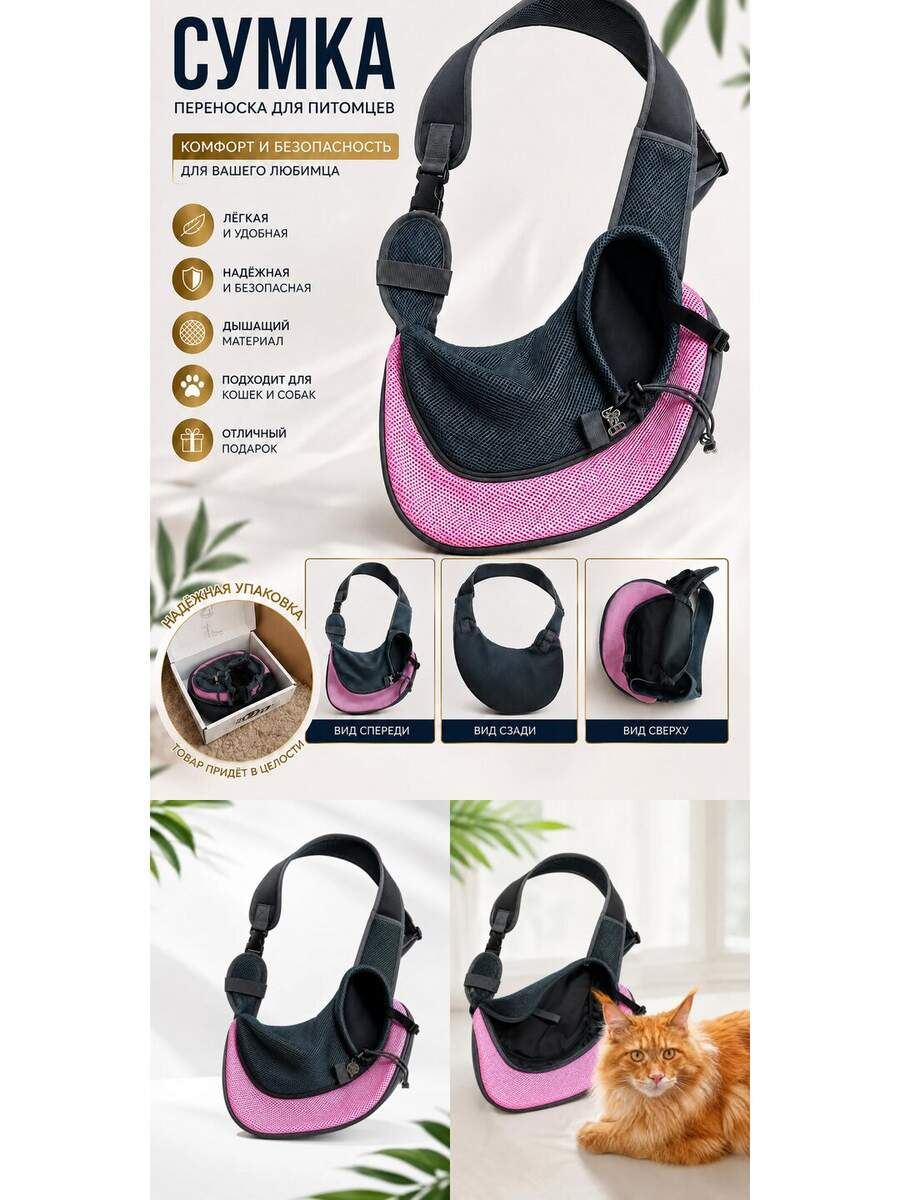
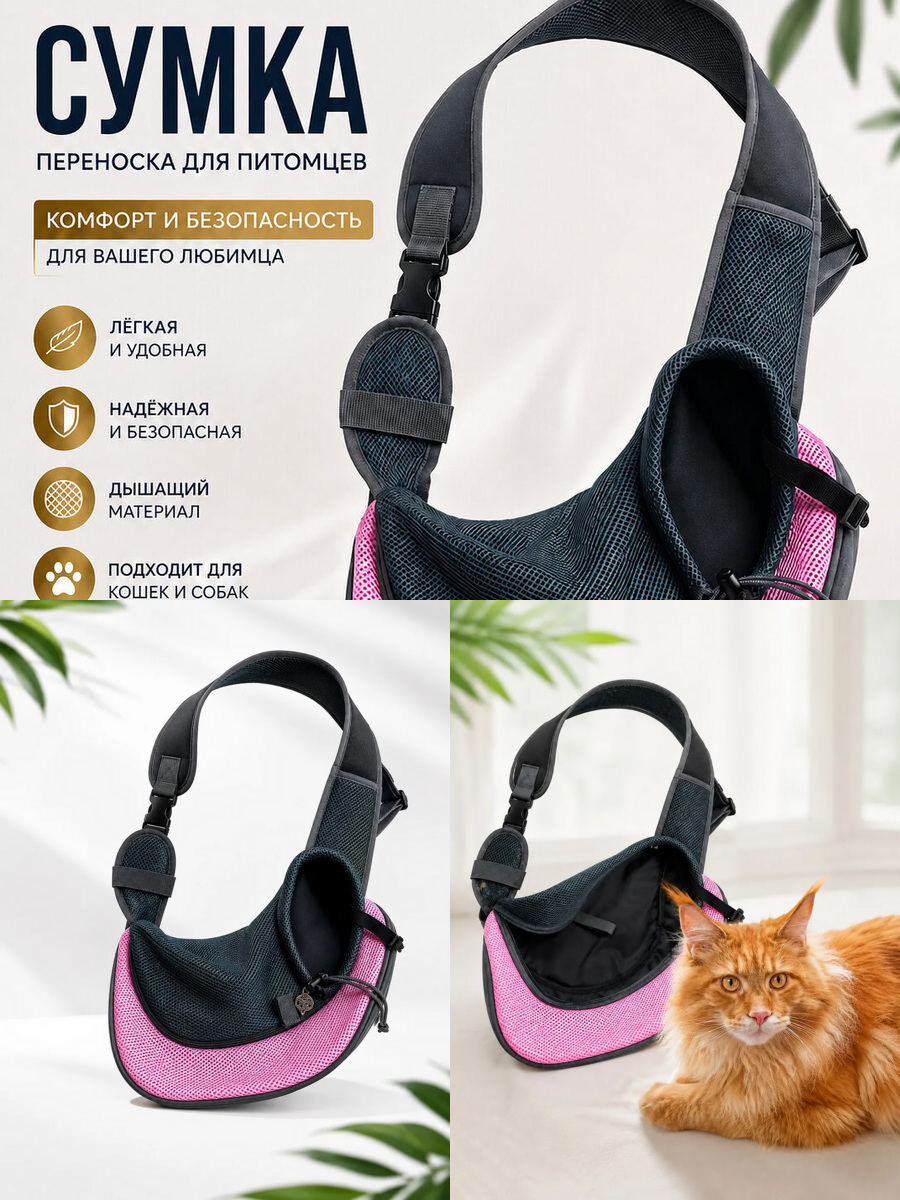
Align all product card previews and remove white bands

diff --git a/portfolio-fix.css b/portfolio-fix.css
@@ -28,6 +28,8 @@
 }
 
 .case-preview {
+  height: 100% !important;
+  min-height: 0 !important;
   align-content: stretch !important;
   grid-template-columns: repeat(2, minmax(0, 1fr)) !important;
   grid-template-rows: repeat(2, minmax(0, 1fr)) !important;
@@ -79,21 +81,25 @@
 }
 
 .case-preview button {
+  aspect-ratio: auto !important;
+  min-height: 0 !important;
   width: 100% !important;
   height: 100% !important;
   align-self: stretch !important;
   display: grid !important;
   place-items: center !important;
-  background: #fffdf9 !important;
+  overflow: hidden !important;
+  background: #e9e2d7 !important;
 }
 
-/* В карточках ничего не обрезаем: надписи и товар видны полностью. */
+/* Все четыре кадра заполняют одинаковые ячейки без белых полос. */
 .case-preview img {
+  display: block !important;
   width: 100% !important;
   height: 100% !important;
-  object-fit: contain !important;
+  object-fit: fill !important;
   object-position: center !important;
-  background: #fffdf9 !important;
+  background: #e9e2d7 !important;
 }
 
 .case-preview.slides-3 button:last-child {
@@ -123,7 +129,7 @@
 
 .gallery-modal,
 .gallery-main {
-  background: #f4eee5 !important;
+  background: #e9e2d7 !important;
 }
 
 .gallery-modal {
